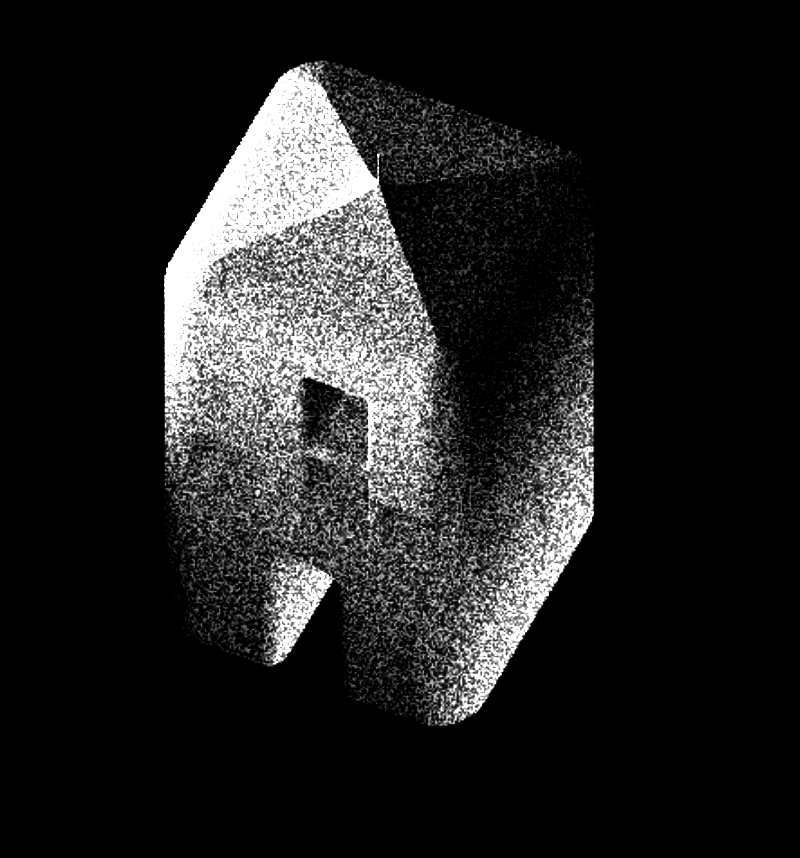
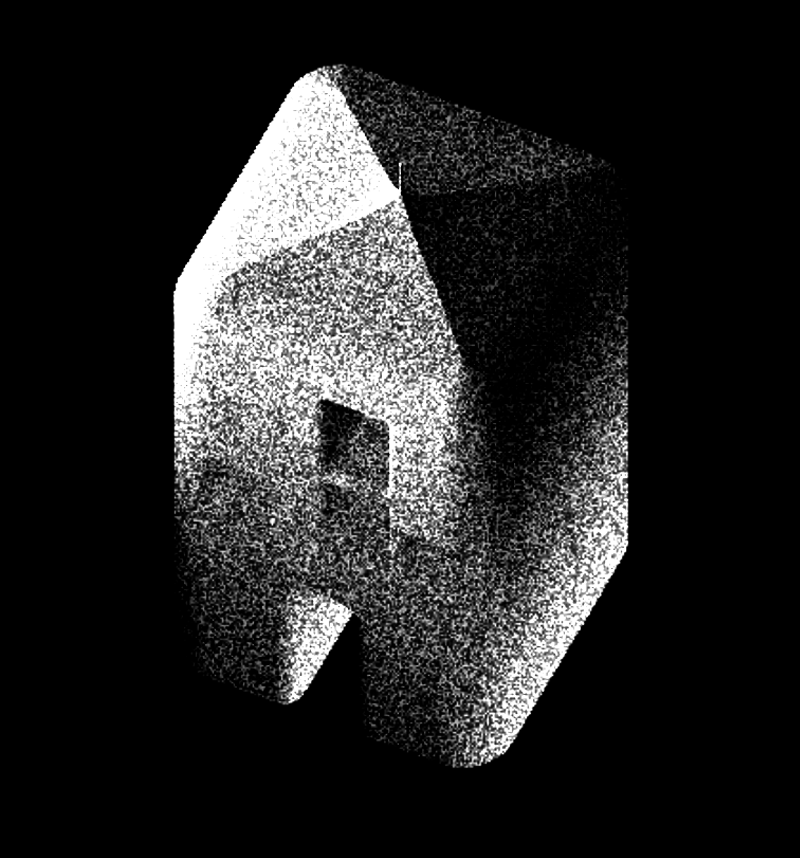
dj dj dj

Changed region(s): [[0.1875, 0.0606, 0.8125, 0.9091]]

diff --git a/static/index.html b/static/index.html
@@ -201,7 +201,7 @@ img {
 
 <img src="assets/ca.png">
 <br>
-<img id="house" src="assets/house.png">
+<img id="house" src="assets/house2.png">
 
 <div id="solstice">
   <div id="num">---</div>
